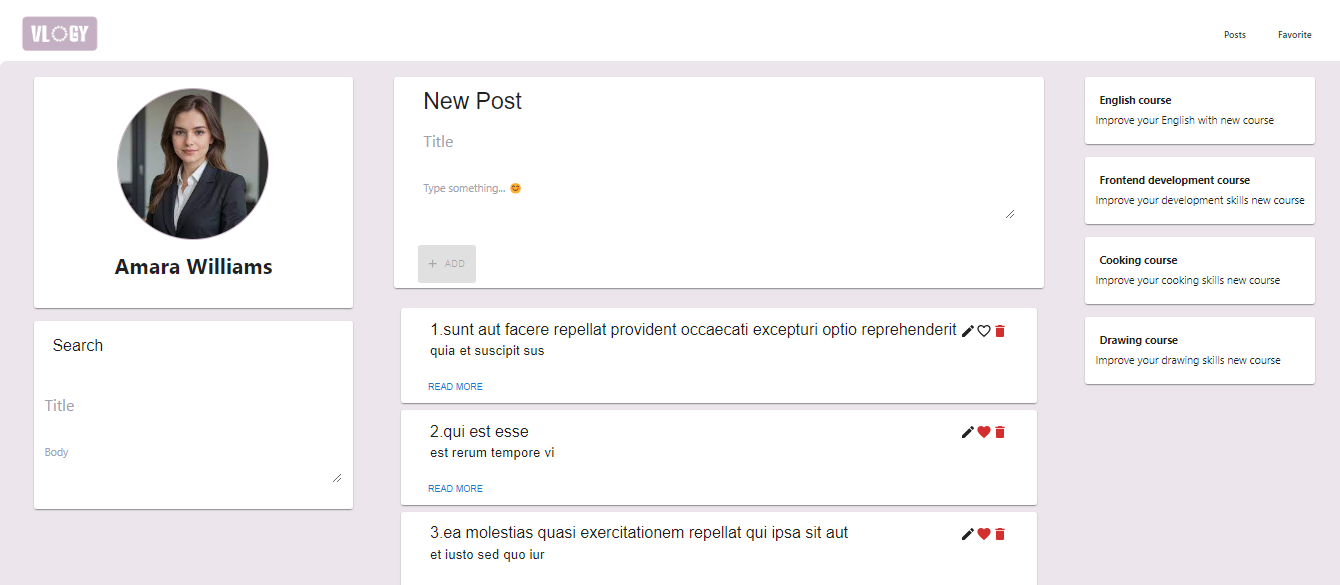
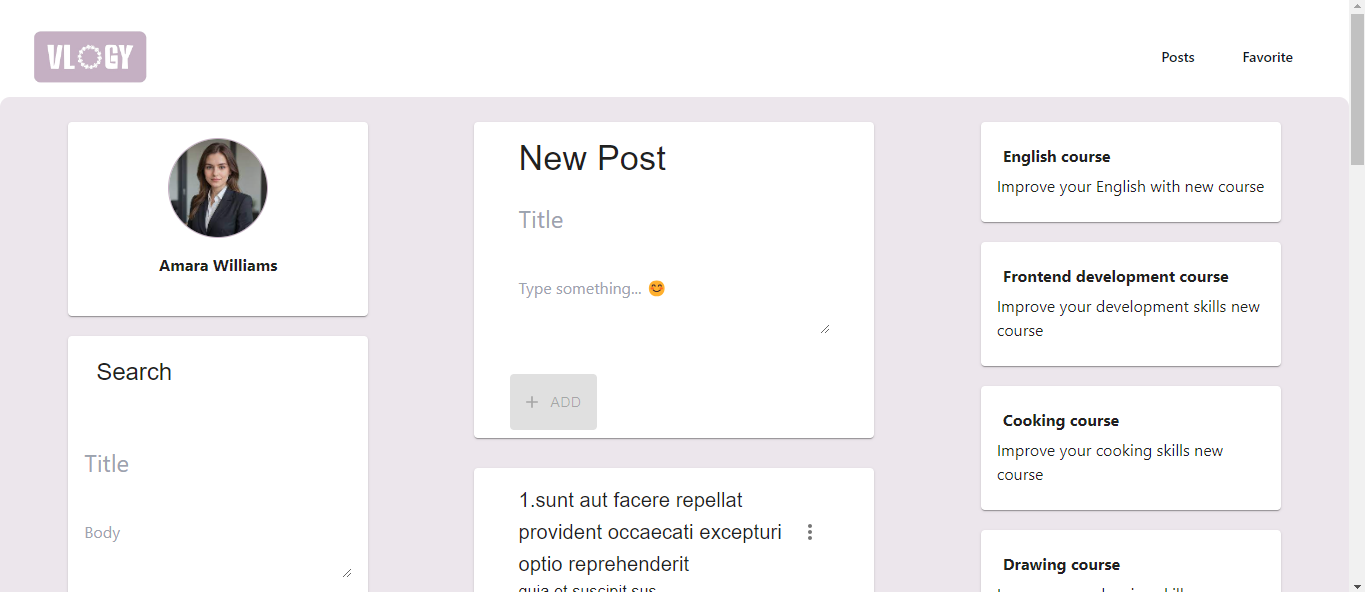
fix: save option
render save item and disable it if the 2 options are missing

diff --git a/src/components/postCard/postCard.jsx b/src/components/postCard/postCard.jsx
@@ -88,7 +88,7 @@ export const PostCard = ({ isFavorite, post, allPosts, setOpenNotification, setN
                                     onClose={handleMenuClose}
                                 >
                                     {!isEditMode ? (
-                                        <MenuItem  className="card-menu-item" onClick={() => {
+                                        <MenuItem className="card-menu-item" onClick={() => {
                                             setEndbleEditMode(true);
                                             handleMenuClose();
                                         }}>
@@ -96,15 +96,15 @@ export const PostCard = ({ isFavorite, post, allPosts, setOpenNotification, setN
                                             Edit
                                         </MenuItem>
                                     ) : (
-                                        currentPost.body.trim() || currentPost.title.trim() ? (
-                                            <MenuItem className="card-menu-item" onClick={() => {
+                                        <MenuItem className="card-menu-item"
+                                            disabled={!currentPost.body.trim() && !currentPost.title.trim()}
+                                            onClick={() => {
                                                 handleEditPosts(allPosts, postIndex, post, currentPost, dispatch, setOpenNotification, setNotificationOptions, setEndbleEditMode);
                                                 handleMenuClose();
                                             }}>
-                                                <SaveIcon fontSize="small" />
-                                                Save
-                                            </MenuItem>
-                                        ) : null
+                                            <SaveIcon fontSize="small" />
+                                            Save
+                                        </MenuItem>
                                     )}
                                     {!isEditMode && (
                                         <MenuItem className="card-menu-item" onClick={() => {
@@ -116,7 +116,7 @@ export const PostCard = ({ isFavorite, post, allPosts, setOpenNotification, setN
                                         </MenuItem>
                                     )}
                                     {!isEditMode && (
-                                        <MenuItem  className="card-menu-item" onClick={() => {
+                                        <MenuItem className="card-menu-item" onClick={() => {
                                             deletePost(post, setOpenNotification, setNotificationOptions, allPosts, dispatch);
                                             handleMenuClose();
                                         }}>
@@ -130,7 +130,7 @@ export const PostCard = ({ isFavorite, post, allPosts, setOpenNotification, setN
                     </div>
                 </Typography>
 
-                <Typography  component="div">
+                <Typography component="div">
                     {isEditMode ? (
                         <textarea
                             name='body'

diff --git a/src/pages/home/home.jsx b/src/pages/home/home.jsx
@@ -22,7 +22,7 @@ export const Home = () => {
             className="relative left-[calc(50%-11rem)] aspect-[1155/678] w-[36.125rem] -translate-x-1/2 rotate-[30deg] bg-gradient-to-tr from-[#ff80b5] to-[#9089fc] opacity-30 sm:left-[calc(50%-30rem)] sm:w-[72.1875rem]"
           />
         </div>
-        <div className="mx-auto max-w-2xl py-32 sm:py-48 lg:py-56">
+        <div className="mx-auto max-w-2xl py-32 sm:py-48 lg:py-56 max-height">
 
           <div className="text-center">
             <h1 className="text-balance text-5xl font-semibold tracking-tight text-gray-900 sm:text-7xl">
@@ -41,18 +41,6 @@ export const Home = () => {
              
             </div>
           </div>
-        </div>
-        <div
-          aria-hidden="true"
-          className="absolute inset-x-0 top-[calc(100%-13rem)] -z-10 transform-gpu overflow-hidden blur-3xl sm:top-[calc(100%-30rem)]"
-        >
-          <div
-            style={{
-              clipPath:
-                'polygon(74.1% 44.1%, 100% 61.6%, 97.5% 26.9%, 85.5% 0.1%, 80.7% 2%, 72.5% 32.5%, 60.2% 62.4%, 52.4% 68.1%, 47.5% 58.3%, 45.2% 34.5%, 27.5% 76.7%, 0.1% 64.9%, 17.9% 100%, 27.6% 76.8%, 76.1% 97.7%, 74.1% 44.1%)',
-            }}
-            className="relative left-[calc(50%+3rem)] aspect-[1155/678] w-[36.125rem] -translate-x-1/2 bg-gradient-to-tr from-[#ff80b5] to-[#9089fc] opacity-30 sm:left-[calc(50%+36rem)] sm:w-[72.1875rem]"
-          />
         </div>
       </div>
     </div>

diff --git a/src/pages/favorite/favorite.jsx b/src/pages/favorite/favorite.jsx
@@ -17,15 +17,9 @@ export const Favorite = () => {
   const [allFilterdposts, setAllFilterdPosts] = useState(favoritePosts)
   const [openNotification, setOpenNotification] = useState(false)
   const [notificationOptions, setNotificationOptions] = useState({ type: "", msg: "" })
-  const [searchOptions, setSearchOptions] = useState({ title: "", body: "" })
 
 
-  useEffect(() => {
-    const filteredPosts = availablePosts.filter(post => {
-      return post.title.startsWith(searchOptions.title) && post.body.startsWith(searchOptions.body)
-    })
-    setAllFilterdPosts(filteredPosts)
-  }, [searchOptions])
+  
 
   /**
    * Filter Favorite posts
@@ -43,7 +37,6 @@ export const Favorite = () => {
 
         <div className='profile-layout-section'>
           <Profile />
-          <div><SearchCard searchOptions={searchOptions} setSearchOptions={setSearchOptions} /></div>
         </div>
 
         <div className='posts-content'>

diff --git a/src/pages/error/error.jsx b/src/pages/error/error.jsx
@@ -20,7 +20,7 @@ export const Error = () => {
             className="relative left-[calc(50%-11rem)] aspect-[1155/678] w-[36.125rem] -translate-x-1/2 rotate-[30deg] bg-gradient-to-tr from-[#ff80b5] to-[#9089fc] opacity-30 sm:left-[calc(50%-30rem)] sm:w-[72.1875rem]"
           />
         </div>
-        <div className="mx-auto max-w-2xl py-32 sm:py-48 lg:py-56">
+        <div className=" max-w-2xl py-32 sm:py-48 lg:py-56 max-height">
 
           <div className="text-center">
             <h1 className="text-balance text-5xl font-semibold tracking-tight text-gray-900 sm:text-7xl">

diff --git a/src/components/newPost/newPostCard.jsx b/src/components/newPost/newPostCard.jsx
@@ -6,6 +6,7 @@ import Button from '@mui/material/Button';
 import Typography from '@mui/material/Typography';
 import AddIcon from '@mui/icons-material/Add';
 import { useDispatch } from 'react-redux';
+import { addNewPost } from '../../helpers/crudHelpers';
 
 /**
  * @module NewPost 

diff --git a/src/output.css b/src/output.css
@@ -1119,7 +1119,9 @@ video {
 .opacity-30 {
   opacity: 0.3;
 }
-
+.max-height{
+  height: 90vh;
+}
 .shadow-sm {
   --tw-shadow: 0 1px 2px 0 rgb(0 0 0 / 0.05);
   --tw-shadow-colored: 0 1px 2px 0 var(--tw-shadow-color);
